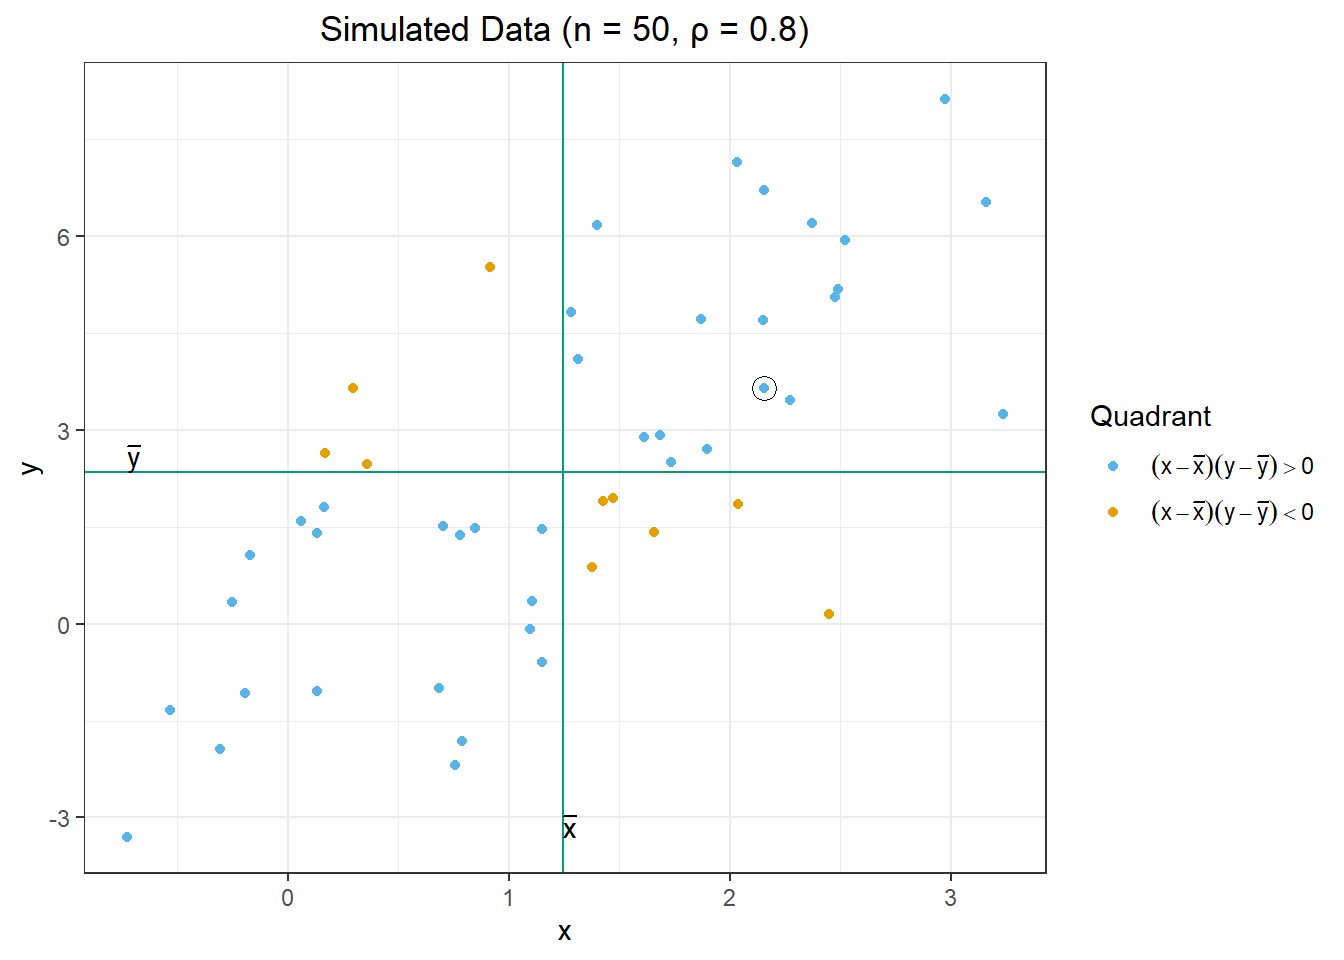
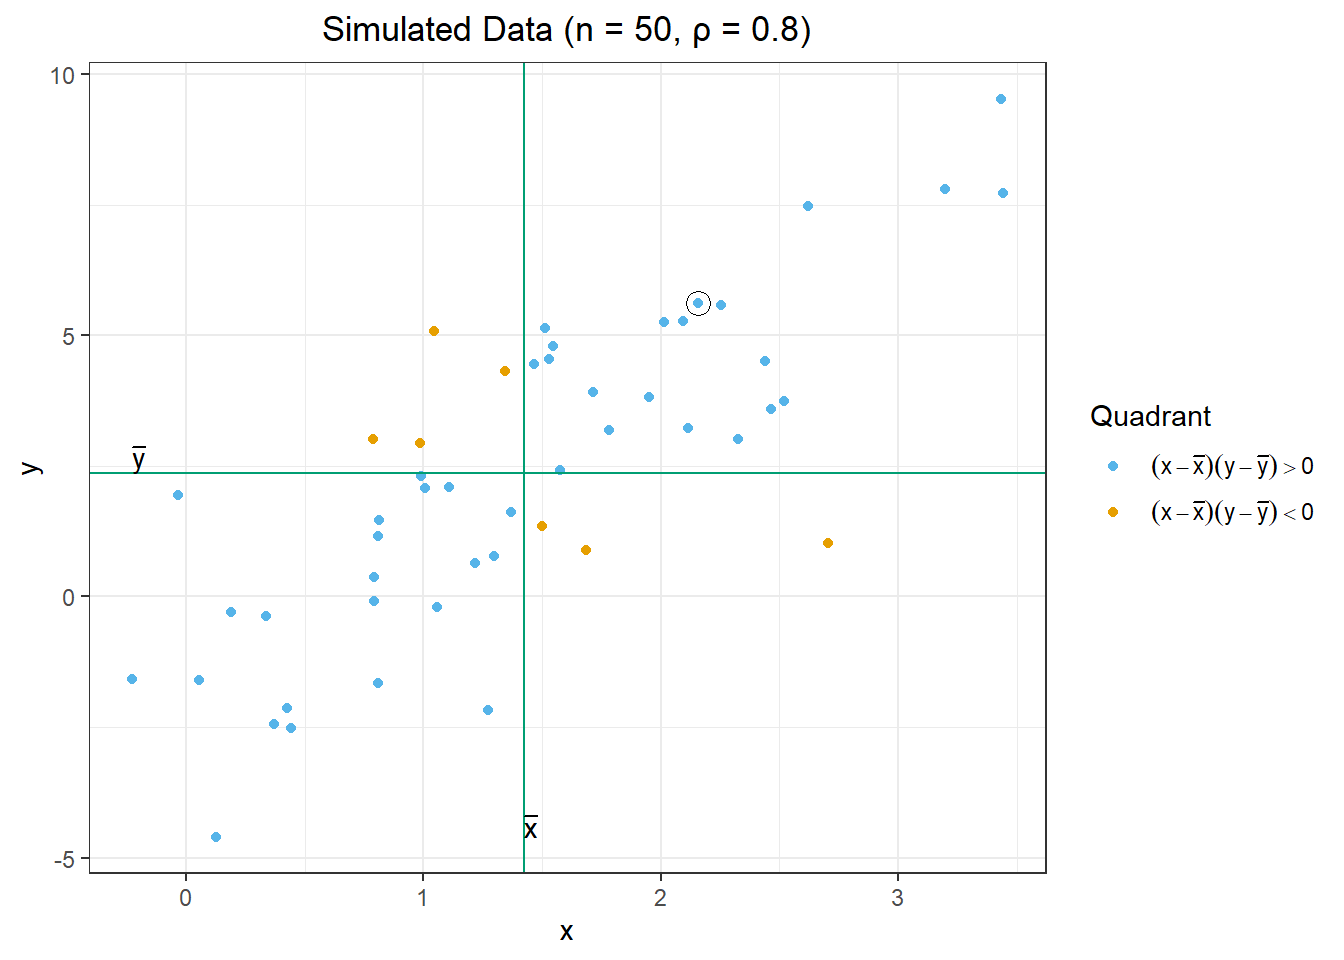
minor changes

diff --git a/chapter_3/chapter_3_lesson_1_class.html b/chapter_3/chapter_3_lesson_1_class.html
@@ -370,7 +370,7 @@ Caution
 <span id="cb3-21"><a href="#cb3-21" aria-hidden="true" tabindex="-1"></a>  <span class="fu">data.frame</span>() <span class="sc">%&gt;%</span> </span>
 <span id="cb3-22"><a href="#cb3-22" aria-hidden="true" tabindex="-1"></a>  <span class="fu">rename</span>(<span class="at">x =</span> X1, <span class="at">y =</span> X2)</span></code><button title="Copy to Clipboard" class="code-copy-button"><i class="bi"></i></button></pre></div>
 </div>
-<p>The following table illustrates some of the simulated values. The mean of the <span class="math inline">\(x\)</span> values is <span class="math inline">\(\bar x = 1.246\)</span>. The mean of the <span class="math inline">\(y\)</span> values is <span class="math inline">\(\bar y =2.346\)</span>. We will soon use the values <span class="math inline">\((x-\bar x)\)</span>, <span class="math inline">\((x-\bar x)^2\)</span>, <span class="math inline">\((y-\bar y)\)</span>, <span class="math inline">\((y-\bar y)^2\)</span>, and <span class="math inline">\((x-\bar x)(y-\bar y)\)</span>. For convenience, they are included in the table below.</p>
+<p>The following table illustrates some of the simulated values. The mean of the <span class="math inline">\(x\)</span> values is <span class="math inline">\(\bar x = 1.424\)</span>. The mean of the <span class="math inline">\(y\)</span> values is <span class="math inline">\(\bar y =2.358\)</span>. We will soon use the values <span class="math inline">\((x-\bar x)\)</span>, <span class="math inline">\((x-\bar x)^2\)</span>, <span class="math inline">\((y-\bar y)\)</span>, <span class="math inline">\((y-\bar y)^2\)</span>, and <span class="math inline">\((x-\bar x)(y-\bar y)\)</span>. For convenience, they are included in the table below.</p>
 <div class="cell">
 <div class="cell-output-display">
 <table class="table table-sm table-striped small" data-quarto-postprocess="true">
@@ -389,103 +389,63 @@ Caution
 <tbody>
 <tr class="odd">
 <td style="text-align: center;">1</td>
-<td style="text-align: center;">2.157</td>
-<td style="text-align: center;">3.654</td>
-<td style="text-align: center;">0.91</td>
-<td style="text-align: center;">0.828</td>
-<td style="text-align: center;">1.308</td>
-<td style="text-align: center;">1.712</td>
-<td style="text-align: center;"><span style="     color: #E69F00 !important;">1.191</span></td>
+<td style="text-align: center;">2.158</td>
+<td style="text-align: center;">5.609</td>
+<td style="text-align: center;">0.734</td>
+<td style="text-align: center;">0.539</td>
+<td style="text-align: center;">3.251</td>
+<td style="text-align: center;">10.568</td>
+<td style="text-align: center;"><span style="     color: #E69F00 !important;">2.386</span></td>
 </tr>
 <tr class="even">
 <td style="text-align: center;">2</td>
-<td style="text-align: center;">2.523</td>
-<td style="text-align: center;">5.938</td>
-<td style="text-align: center;">1.277</td>
-<td style="text-align: center;">1.63</td>
-<td style="text-align: center;">3.592</td>
-<td style="text-align: center;">12.904</td>
-<td style="text-align: center;"><span style="     color: #E69F00 !important;">4.586</span></td>
+<td style="text-align: center;">0.809</td>
+<td style="text-align: center;">1.154</td>
+<td style="text-align: center;">-0.615</td>
+<td style="text-align: center;">0.378</td>
+<td style="text-align: center;">-1.204</td>
+<td style="text-align: center;">1.448</td>
+<td style="text-align: center;"><span style="     color: #E69F00 !important;">0.74</span></td>
 </tr>
 <tr class="odd">
 <td style="text-align: center;">3</td>
-<td style="text-align: center;">1.734</td>
-<td style="text-align: center;">2.505</td>
-<td style="text-align: center;">0.488</td>
-<td style="text-align: center;">0.238</td>
-<td style="text-align: center;">0.159</td>
-<td style="text-align: center;">0.025</td>
-<td style="text-align: center;"><span style="     color: #E69F00 !important;">0.078</span></td>
+<td style="text-align: center;">1.342</td>
+<td style="text-align: center;">4.314</td>
+<td style="text-align: center;">-0.082</td>
+<td style="text-align: center;">0.007</td>
+<td style="text-align: center;">1.956</td>
+<td style="text-align: center;">3.826</td>
+<td style="text-align: center;"><span style="     color: #56B4E9 !important;">-0.161</span></td>
 </tr>
 <tr class="even">
 <td style="text-align: center;">4</td>
-<td style="text-align: center;">3.235</td>
-<td style="text-align: center;">3.242</td>
-<td style="text-align: center;">1.989</td>
-<td style="text-align: center;">3.955</td>
-<td style="text-align: center;">0.896</td>
-<td style="text-align: center;">0.803</td>
-<td style="text-align: center;"><span style="     color: #E69F00 !important;">1.782</span></td>
+<td style="text-align: center;">0.127</td>
+<td style="text-align: center;">-4.598</td>
+<td style="text-align: center;">-1.297</td>
+<td style="text-align: center;">1.682</td>
+<td style="text-align: center;">-6.956</td>
+<td style="text-align: center;">48.39</td>
+<td style="text-align: center;"><span style="     color: #E69F00 !important;">9.023</span></td>
 </tr>
 <tr class="odd">
 <td style="text-align: center;">5</td>
-<td style="text-align: center;">1.105</td>
-<td style="text-align: center;">0.347</td>
-<td style="text-align: center;">-0.141</td>
-<td style="text-align: center;">0.02</td>
-<td style="text-align: center;">-1.999</td>
-<td style="text-align: center;">3.995</td>
-<td style="text-align: center;"><span style="     color: #E69F00 !important;">0.282</span></td>
+<td style="text-align: center;">0.793</td>
+<td style="text-align: center;">0.367</td>
+<td style="text-align: center;">-0.631</td>
+<td style="text-align: center;">0.398</td>
+<td style="text-align: center;">-1.991</td>
+<td style="text-align: center;">3.965</td>
+<td style="text-align: center;"><span style="     color: #E69F00 !important;">1.256</span></td>
 </tr>
 <tr class="even">
 <td style="text-align: center;">6</td>
-<td style="text-align: center;">1.4</td>
-<td style="text-align: center;">6.17</td>
-<td style="text-align: center;">0.154</td>
-<td style="text-align: center;">0.024</td>
-<td style="text-align: center;">3.824</td>
-<td style="text-align: center;">14.624</td>
-<td style="text-align: center;"><span style="     color: #E69F00 !important;">0.588</span></td>
-</tr>
-<tr class="odd">
-<td style="text-align: center;">7</td>
-<td style="text-align: center;">1.313</td>
-<td style="text-align: center;">4.092</td>
-<td style="text-align: center;">0.067</td>
-<td style="text-align: center;">0.004</td>
-<td style="text-align: center;">1.747</td>
-<td style="text-align: center;">3.051</td>
-<td style="text-align: center;"><span style="     color: #E69F00 !important;">0.117</span></td>
-</tr>
-<tr class="even">
-<td style="text-align: center;">8</td>
-<td style="text-align: center;">-0.308</td>
-<td style="text-align: center;">-1.939</td>
-<td style="text-align: center;">-1.555</td>
-<td style="text-align: center;">2.417</td>
-<td style="text-align: center;">-4.285</td>
-<td style="text-align: center;">18.358</td>
-<td style="text-align: center;"><span style="     color: #E69F00 !important;">6.661</span></td>
-</tr>
-<tr class="odd">
-<td style="text-align: center;">9</td>
-<td style="text-align: center;">1.47</td>
-<td style="text-align: center;">1.947</td>
-<td style="text-align: center;">0.223</td>
-<td style="text-align: center;">0.05</td>
-<td style="text-align: center;">-0.399</td>
-<td style="text-align: center;">0.159</td>
-<td style="text-align: center;"><span style="     color: #56B4E9 !important;">-0.089</span></td>
-</tr>
-<tr class="even">
-<td style="text-align: center;">:</td>
-<td style="text-align: center;">:</td>
-<td style="text-align: center;">:</td>
-<td style="text-align: center;">:</td>
-<td style="text-align: center;">:</td>
-<td style="text-align: center;">:</td>
-<td style="text-align: center;">:</td>
-<td style="text-align: center;"><span style="     color: Black !important;">:</span></td>
+<td style="text-align: center;">1.573</td>
+<td style="text-align: center;">2.411</td>
+<td style="text-align: center;">0.149</td>
+<td style="text-align: center;">0.022</td>
+<td style="text-align: center;">0.053</td>
+<td style="text-align: center;">0.003</td>
+<td style="text-align: center;"><span style="     color: #E69F00 !important;">0.008</span></td>
 </tr>
 <tr class="odd">
 <td style="text-align: center;">:</td>
@@ -498,44 +458,54 @@ Caution
 <td style="text-align: center;"><span style="     color: Black !important;">:</span></td>
 </tr>
 <tr class="even">
+<td style="text-align: center;">:</td>
+<td style="text-align: center;">:</td>
+<td style="text-align: center;">:</td>
+<td style="text-align: center;">:</td>
+<td style="text-align: center;">:</td>
+<td style="text-align: center;">:</td>
+<td style="text-align: center;">:</td>
+<td style="text-align: center;"><span style="     color: Black !important;">:</span></td>
+</tr>
+<tr class="odd">
 <td style="text-align: center;">48</td>
-<td style="text-align: center;">1.425</td>
-<td style="text-align: center;">1.897</td>
-<td style="text-align: center;">0.178</td>
-<td style="text-align: center;">0.032</td>
-<td style="text-align: center;">-0.449</td>
-<td style="text-align: center;">0.202</td>
-<td style="text-align: center;"><span style="     color: #56B4E9 !important;">-0.08</span></td>
-</tr>
-<tr class="odd">
-<td style="text-align: center;">49</td>
-<td style="text-align: center;">3.162</td>
-<td style="text-align: center;">6.527</td>
-<td style="text-align: center;">1.916</td>
-<td style="text-align: center;">3.669</td>
-<td style="text-align: center;">4.181</td>
-<td style="text-align: center;">17.482</td>
-<td style="text-align: center;"><span style="     color: #E69F00 !important;">8.009</span></td>
+<td style="text-align: center;">1.046</td>
+<td style="text-align: center;">5.073</td>
+<td style="text-align: center;">-0.378</td>
+<td style="text-align: center;">0.143</td>
+<td style="text-align: center;">2.715</td>
+<td style="text-align: center;">7.372</td>
+<td style="text-align: center;"><span style="     color: #56B4E9 !important;">-1.027</span></td>
 </tr>
 <tr class="even">
-<td style="text-align: center;">50</td>
-<td style="text-align: center;">1.377</td>
-<td style="text-align: center;">0.878</td>
-<td style="text-align: center;">0.131</td>
-<td style="text-align: center;">0.017</td>
-<td style="text-align: center;">-1.467</td>
-<td style="text-align: center;">2.153</td>
-<td style="text-align: center;"><span style="     color: #56B4E9 !important;">-0.192</span></td>
+<td style="text-align: center;">49</td>
+<td style="text-align: center;">-0.228</td>
+<td style="text-align: center;">-1.581</td>
+<td style="text-align: center;">-1.652</td>
+<td style="text-align: center;">2.728</td>
+<td style="text-align: center;">-3.939</td>
+<td style="text-align: center;">15.516</td>
+<td style="text-align: center;"><span style="     color: #E69F00 !important;">6.506</span></td>
 </tr>
 <tr class="odd">
+<td style="text-align: center;">50</td>
+<td style="text-align: center;">2.013</td>
+<td style="text-align: center;">5.247</td>
+<td style="text-align: center;">0.589</td>
+<td style="text-align: center;">0.347</td>
+<td style="text-align: center;">2.889</td>
+<td style="text-align: center;">8.345</td>
+<td style="text-align: center;"><span style="     color: #E69F00 !important;">1.702</span></td>
+</tr>
+<tr class="even">
 <td style="text-align: center;">sum</td>
-<td style="text-align: center;">62.324</td>
-<td style="text-align: center;">117.285</td>
+<td style="text-align: center;">71.203</td>
+<td style="text-align: center;">117.894</td>
 <td style="text-align: center;">0</td>
-<td style="text-align: center;">49.817</td>
+<td style="text-align: center;">39.101</td>
 <td style="text-align: center;">0</td>
-<td style="text-align: center;">361.165</td>
-<td style="text-align: center;"><span style="     color: #E69F00 !important;">93.057</span></td>
+<td style="text-align: center;">450.953</td>
+<td style="text-align: center;"><span style="     color: #E69F00 !important;">105.374</span></td>
 </tr>
 </tbody>
 </table>
@@ -560,9 +530,9 @@ Cov(x,y)
 =
 \frac{\sum\limits_{i=1}^n (x - \bar x)(y - \bar y)}{n-1}
 =
-\frac{93.057}{50 - 1}
+\frac{105.374}{50 - 1}
 =
-1.899
+2.15
 \]</span></p>
 <p>You can think of this as an “average” of the <span class="math inline">\((x - \bar x)(y - \bar y)\)</span> values. The only difference is that we divide by <span class="math inline">\(n-1\)</span> instead of <span class="math inline">\(n\)</span>.</p>
 <ul>
@@ -577,38 +547,38 @@ s_x &amp;= \sqrt{ \frac{\sum\limits_{i=1}^n (x - \bar x)^2}{n-1} }
 =
 \sqrt{
 \frac{
-49.817
+39.101
 }{
 50-1
 }
 }
 =
-1.008
+0.893
 \\
 s_y &amp;= \sqrt{ \frac{\sum\limits_{i=1}^n (y - \bar y)^2}{n-1} }
 =
 \sqrt{
 \frac{
-361.165
+450.953
 }{
 50-1
 }
 }
 =
-2.715
+3.034
 \end{align*}
 \]</span></p>
 <p>The sample correlation coefficient is: <span class="math display">\[
 r = \frac{\sum\limits_{i=1}^n (x - \bar x)(y - \bar y)}{\sqrt{\sum\limits_{i=1}^n (x - \bar x)^2} \sqrt{\sum\limits_{i=1}^n (y - \bar y)^2}}
 =
 \frac{
-93.057
+105.374
 }{
-\sqrt{ 49.817}
-\sqrt{ 361.165}
+\sqrt{ 39.101}
+\sqrt{ 450.953}
 }
 =
-0.694
+0.794
 \]</span></p>
 <ul>
 <li><p>What do you get if you multiply the equations for <span class="math inline">\(r\)</span>, <span class="math inline">\(s_x\)</span>, and <span class="math inline">\(s_y\)</span> together? <span class="math display">\[
@@ -632,13 +602,13 @@ r = \frac{\sum\limits_{i=1}^n (x - \bar x)(y - \bar y)}{\sqrt{\sum\limits_{i=1}^
 $$
 Cov(x,y) = r \cdot s_x \cdot s_y 
 =
-0.694
+0.794
 \cdot 
-1.008
+0.893
 \cdot 
-2.715
+3.034
 =
-1.899
+2.15
 $$
  -->
 </section>
